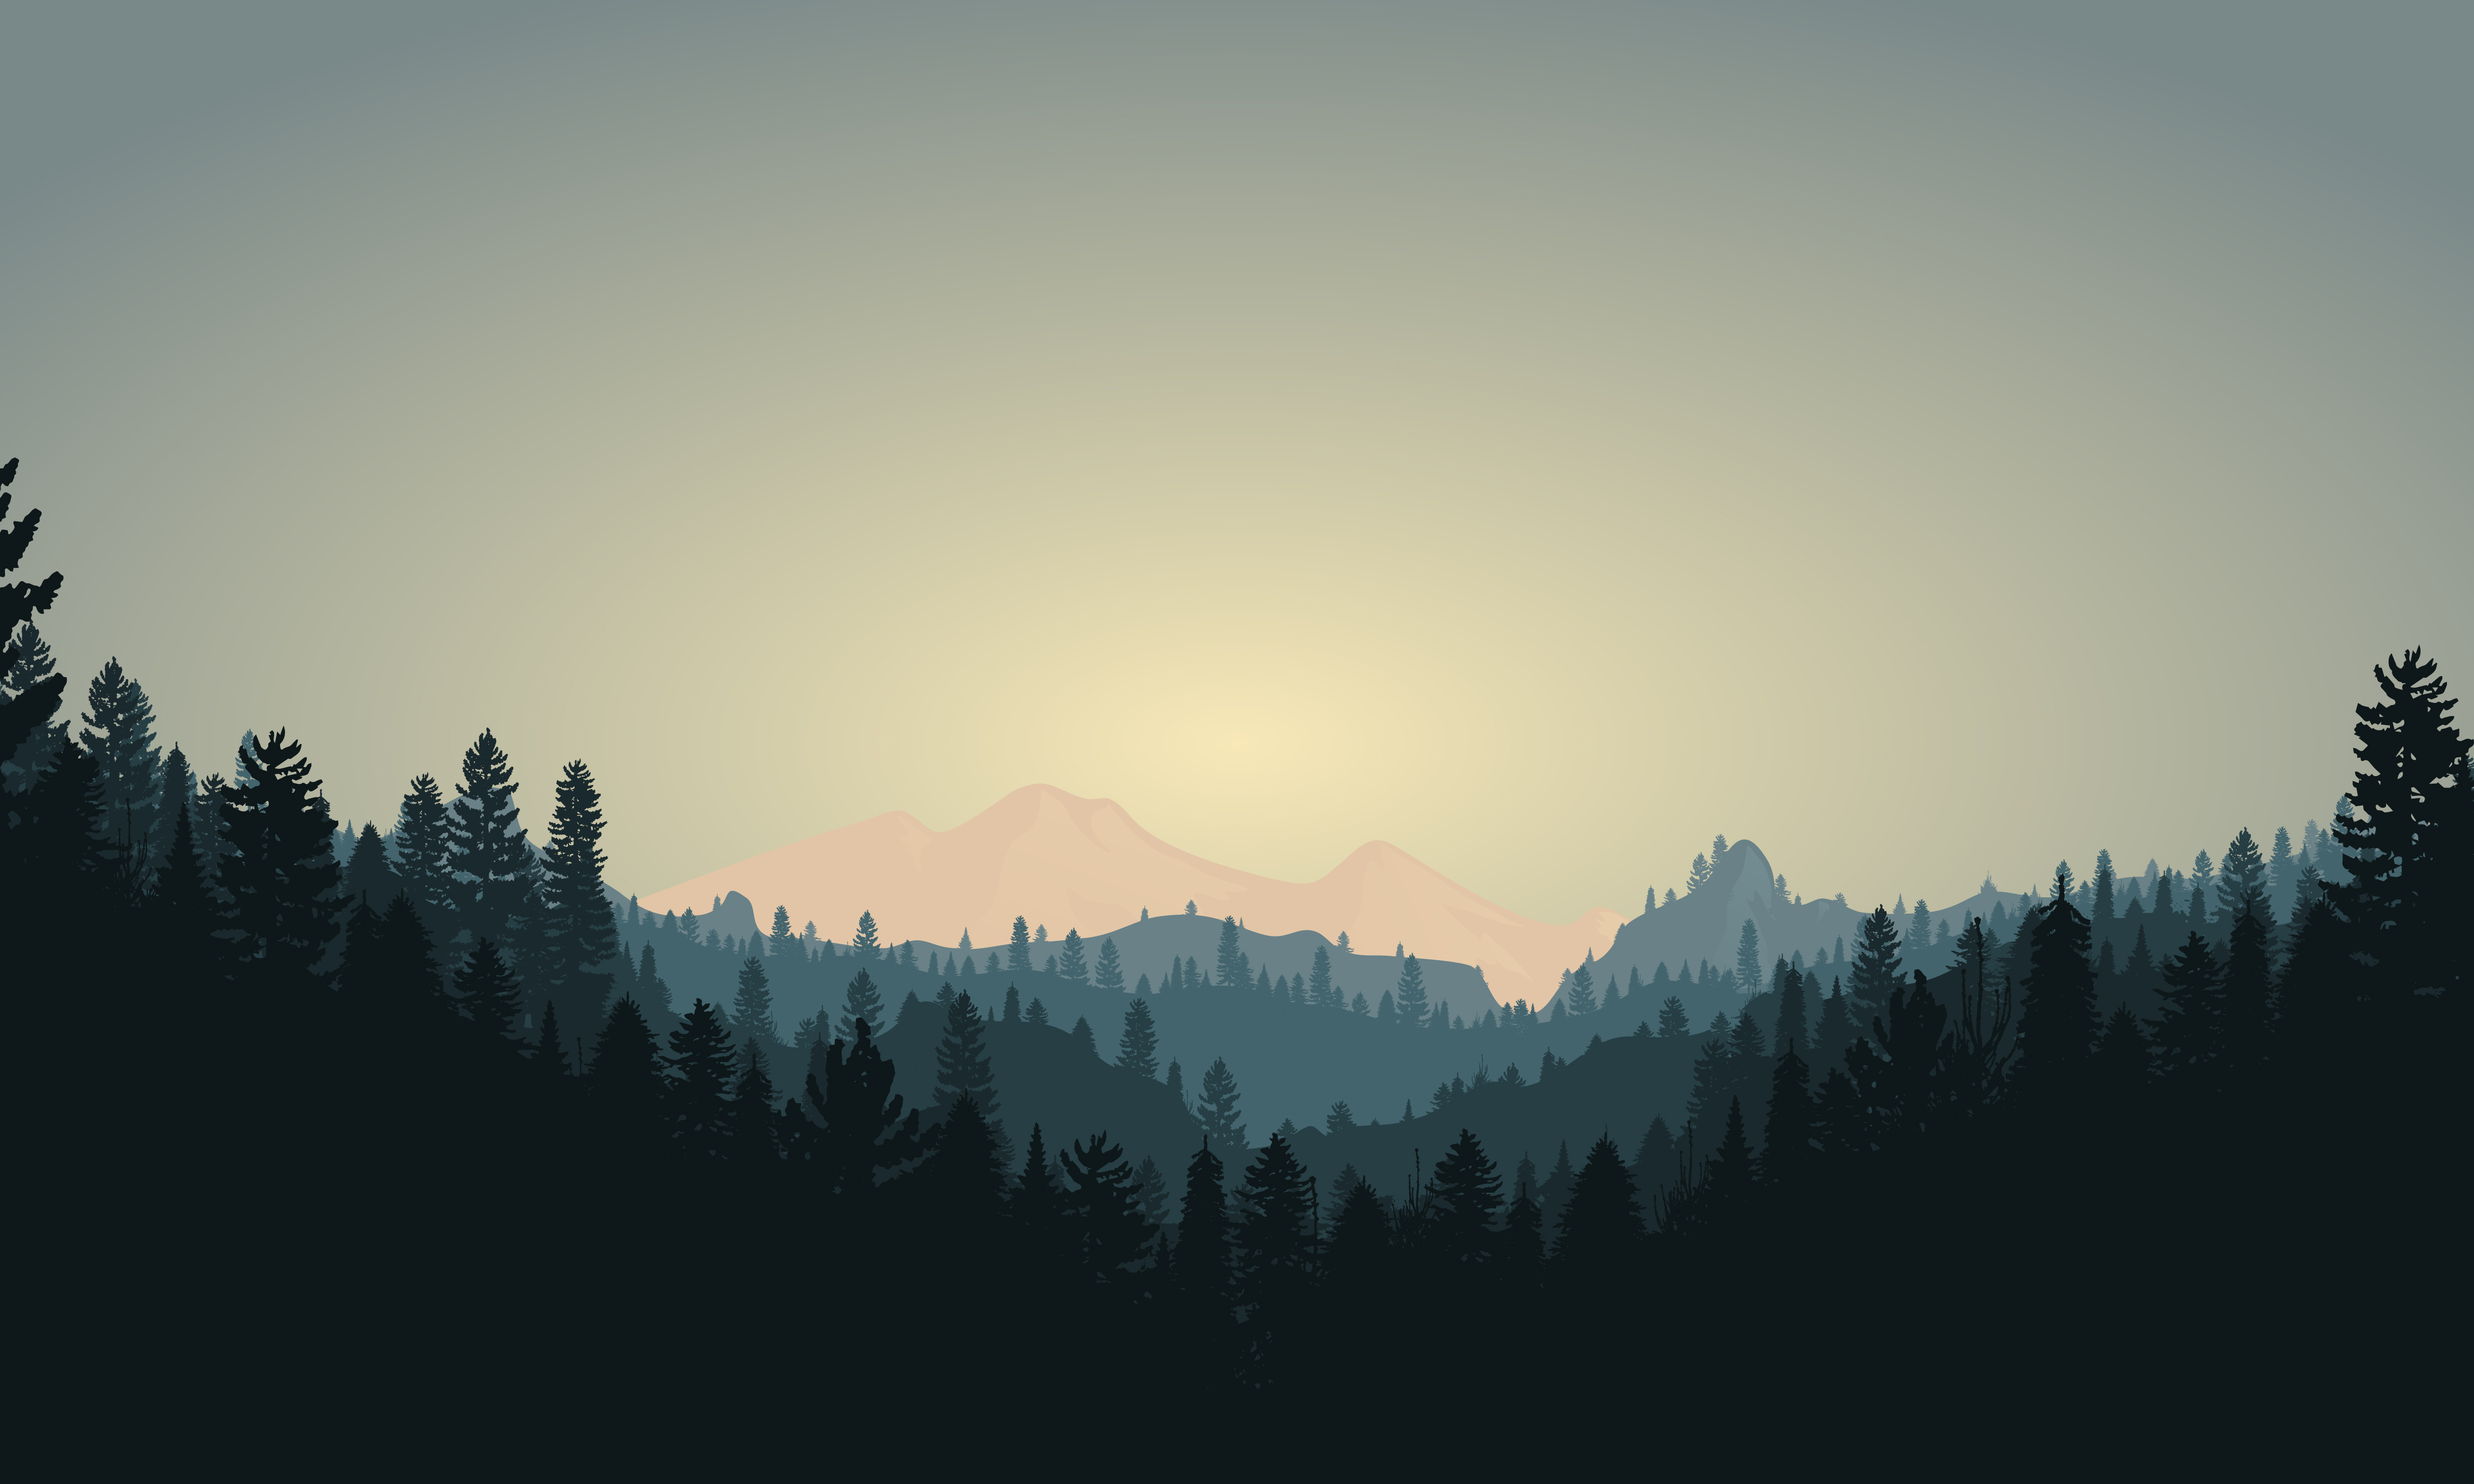
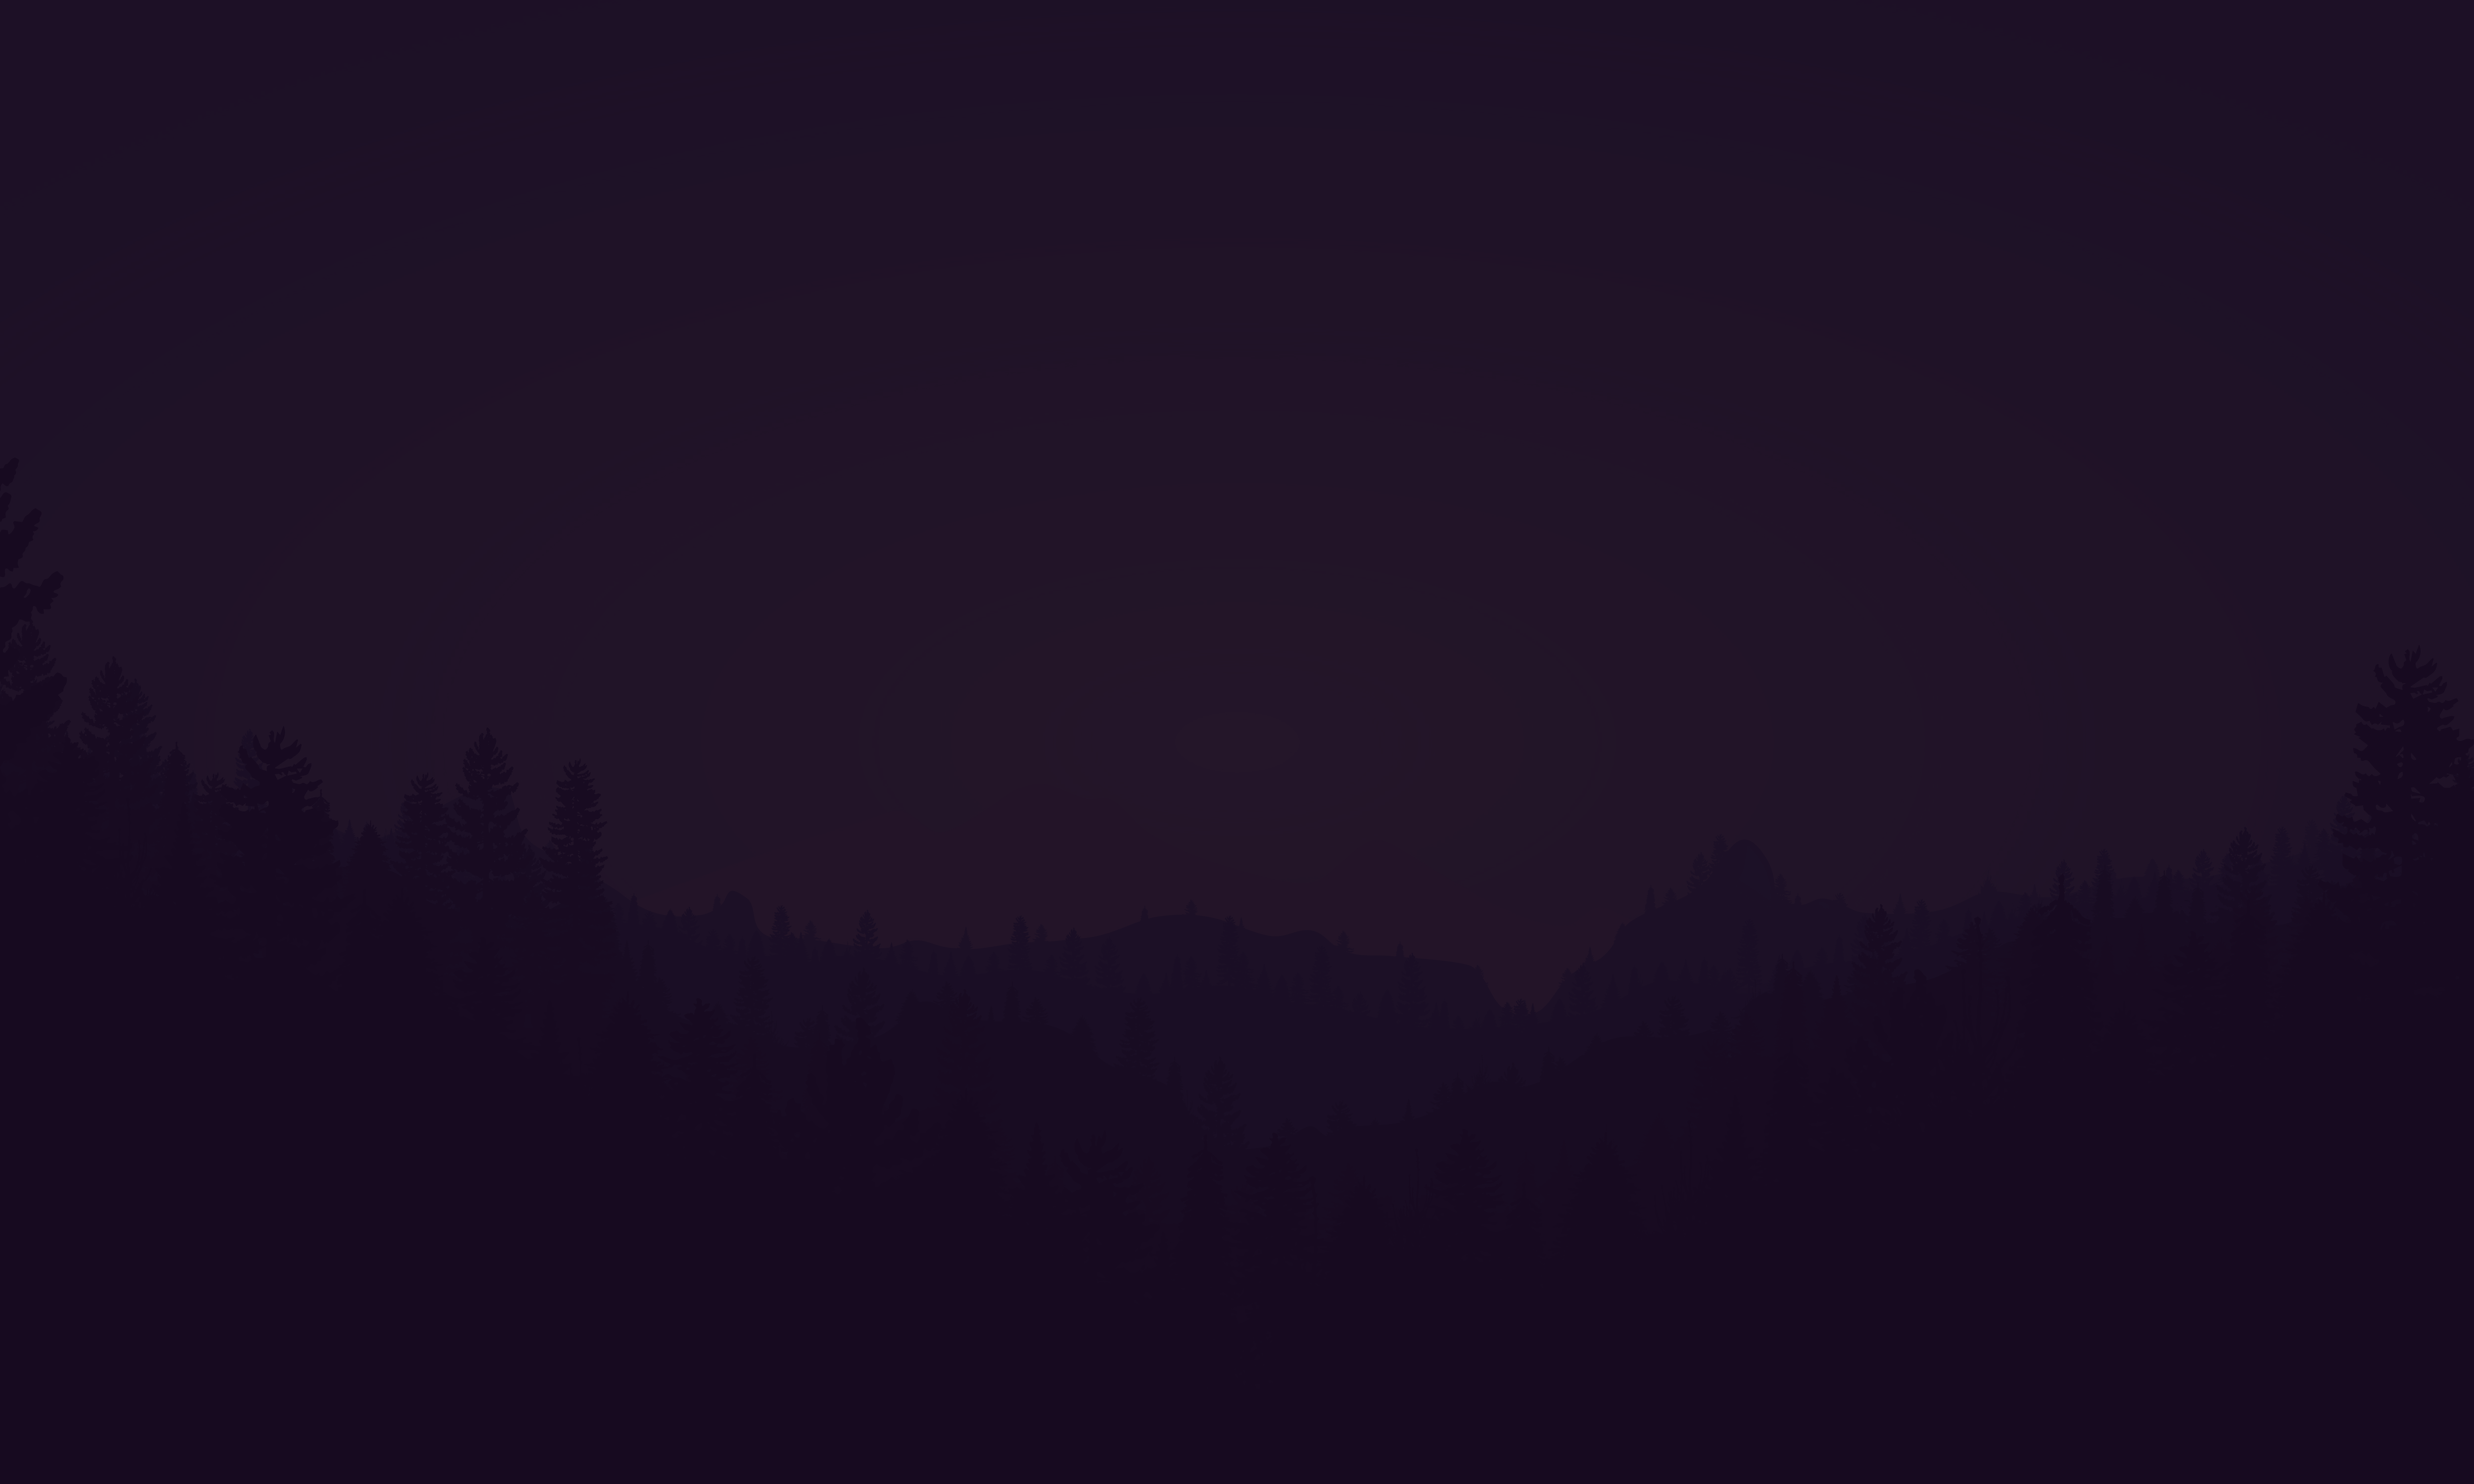
new landing page

diff --git a/src/app/about/about.component.css b/src/app/about/about.component.css
@@ -1,6 +1,7 @@
-*{
+* {
   font-family: 'Raleway', sans-serif;
 }
+
 .about {
   font-family: 'Great Vibes', cursive;
   font-size: 550%;
@@ -17,10 +18,7 @@
   padding-top: 3%;
   padding-bottom: 3%;
   /* min-height: 200vh; */
-  background-image: url("../../../src/assets/images/aboutBackground.jpg");
-  background-repeat: no-repeat;
-  background-attachment: fixed;
-  background-size: cover;
+  background-color: rgb(16, 29, 20);
 }
 
 .about {
@@ -96,10 +94,10 @@ h3 {
   border: 4px solid white;
   padding: 4%;
 }
-.technologies {
-    border: 4px solid white;
-  padding: 4%;
 
+.technologies {
+  border: 4px solid white;
+  padding: 4%;
 }
 
 .clippyParent {
@@ -128,20 +126,21 @@ h3 {
   width: 80%;
   height: auto;
 }
+
 .lines {
   width: 50px !important;
 }
+
 .myFace {
-  width: 55%;
+  width: 38%;
+  padding-bottom: 5%;
 }
+
 colNoPadding {
   padding: 0;
 }
+
 .lightBackground {
   background-color: rgb(230, 230, 230);
   padding-top: 5%;
-}
-.puzzle {
-  width: 100%;
-  height: auto;
 }

diff --git a/src/app/projects/projects.component.html b/src/app/projects/projects.component.html
@@ -6,8 +6,7 @@
       <div class="col-md-6 projectsIconBackground">
         <div class="container-fluid">
           <div class="row">
-            <div class="col-md-1"></div>
-            <div class="col-md-10 d-flex justify-content-center align-items-center">
+            <div class="col-md-12 d-flex justify-content-center align-items-center">
               <img class="puzzle" src="../../assets/images/puzzle.png" alt="horizontal line">
             </div>
           </div>
@@ -38,12 +37,12 @@
       </div>
       <div class="row">
         <div class="col-md-6">
-          <h2>Space Hub</h2>
           <img class="icons" src="../../assets/images/spaceHub.png" alt="">
+          <h2>Space Hub</h2>
         </div>
         <div class="col-md-6">
-          <h2>Thesaurus Rex</h2>
           <img class="icons" src="../../assets/images/thesaurusRex.png" alt="">
+          <h2>Thesaurus Rex</h2>
         </div>
       </div>
     </div>

diff --git a/src/app/landing-photo/landing-photo.component.html b/src/app/landing-photo/landing-photo.component.html
@@ -1,14 +1,10 @@
 <section id="section1" class="d-flex align-items-center">
   <div class="container-fluid">
     <div class="row">
-      <div class="col-md-12 colNoPadding">
-        <div id="polyscape-1" class="polyscape-background">
-          <div class="square-rotated"></div>
-          <div class="square"></div>
-          <div class="circle">
-            <img class="logo" src="../../assets/images/JhNoFill.png" alt="logo">
-          </div>
-        </div>
+      <div class="col-md-12 colNoPadding text-center">
+        <img class="logo animated fadeInDown" src="../../assets/images/logo.png" alt="logo">
+        <h1>Jeff Hernandez</h1>
+        <h2>Full Stack Web Developer</h2>
       </div>
     </div>
   </div>

diff --git a/src/app/landing-photo/landing-photo.component.css b/src/app/landing-photo/landing-photo.component.css
@@ -1,6 +1,8 @@
 #section1 {
-  min-height: 90vh;
-  background-image: url("../../../src/assets/images/landing.png");
+  min-height: 80vh;
+   background-color: rgb(250, 250, 250); 
+    /* background-image: url("../../../src/assets/images/landing.png"); */
+
   /* background-color:black;
     -webkit-clip-path: polygon(0 0, 100% 0, 100% 100%, 0 86%);
   clip-path: polygon(0 0, 100% 0, 100% 100%, 0 86%); */
@@ -60,8 +62,9 @@
 }
 
 .logo {
-  width: 100%;
+  width: 45%;
   height: auto;
+  padding-bottom: 15%;
 }
 
 .aboutParent {
@@ -131,6 +134,9 @@
 }
 .colNoPadding {
   padding: 0;
+}
+h1, h2 {
+  color: black;
 }
 
 /*   

diff --git a/src/index.html b/src/index.html
@@ -1,5 +1,6 @@
 <!doctype html>
 <html lang="en">
+
 <head>
   <meta charset="utf-8">
   <title>FinalPort</title>
@@ -7,9 +8,12 @@
 
   <meta name="viewport" content="width=device-width, initial-scale=1">
   <link rel="icon" type="image/x-icon" href="favicon.ico">
-<link href="https://fonts.googleapis.com/css?family=Great+Vibes|Raleway" rel="stylesheet">
+  <link href="https://fonts.googleapis.com/css?family=Great+Vibes|Raleway" rel="stylesheet">
+  <link rel="stylesheet" href="https://cdnjs.cloudflare.com/ajax/libs/animate.css/3.5.2/animate.min.css">
 </head>
+
 <body>
   <app-root>Loading...</app-root>
 </body>
+
 </html>

diff --git a/src/app/contact/contact.component.css b/src/app/contact/contact.component.css
@@ -17,10 +17,7 @@
   padding-top: 3%;
   padding-bottom: 3%;
   /* min-height: 200vh; */
-  background-image: url("../../../src/assets/images/contactBackground.jpg");
-  background-repeat: no-repeat;
-  background-attachment: fixed;
-  background-size: cover;
+  background-color: rgb(24, 10, 33);
 }
 
 .about {
@@ -131,8 +128,9 @@ h3 {
 .lines {
   width: 50px !important;
 }
-.myFace {
-  width: 55%;
+.contact {
+  width: 40%;
+  padding-bottom: 5%;
 }
 colNoPadding {
   padding: 0;

diff --git a/src/app/projects/projects.component.css b/src/app/projects/projects.component.css
@@ -10,7 +10,7 @@
 }
 
 .leftProjectBackground {
-  background-color: rgb(245, 245, 245);
+  background-color: rgb(230, 230, 230);
   padding-top: 10%;
   padding-bottom: 10%;
 }
@@ -38,6 +38,8 @@
 
 .icons {
   width: 50%;
+  padding-top: 10%;
+  padding-bottom: 10%;
 }
 
 .projectsContainer {
@@ -150,6 +152,7 @@ h3 {
 }
 
 .puzzle {
-  width: 52%;
+  width: 42%;
   height: auto;
+  padding-bottom: 5%;
 }

diff --git a/src/app/contact/contact.component.html b/src/app/contact/contact.component.html
@@ -10,7 +10,7 @@
           </div>
           <div class="row">
             <div class="col-md-12 d-flex justify-content-center align-items-center">
-              <img class="myFace" src="../../assets/images/typewriter.png" alt="">
+              <img class="contact" src="../../assets/images/typewriter.png" alt="">
             </div>
           </div>
         </div>
